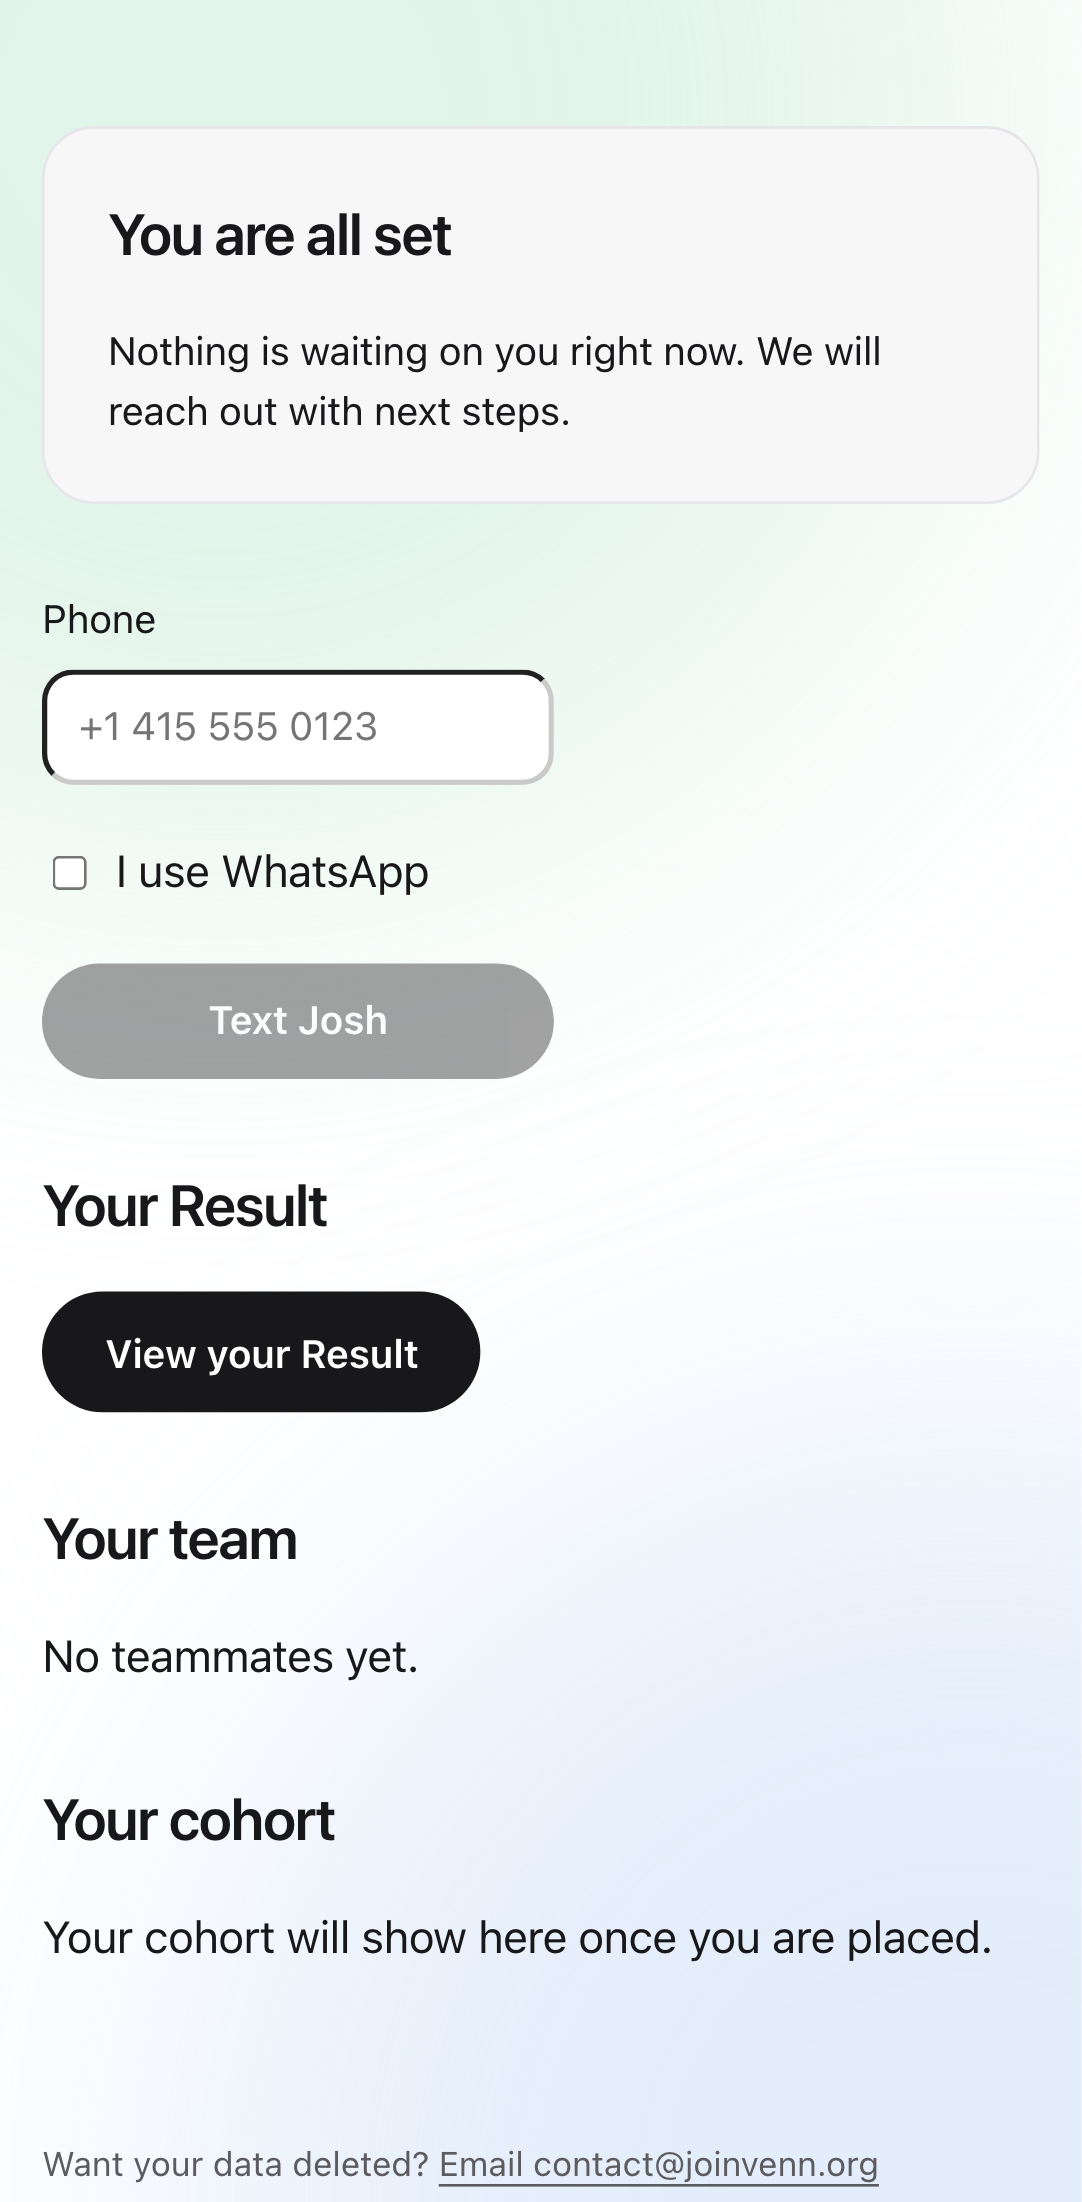
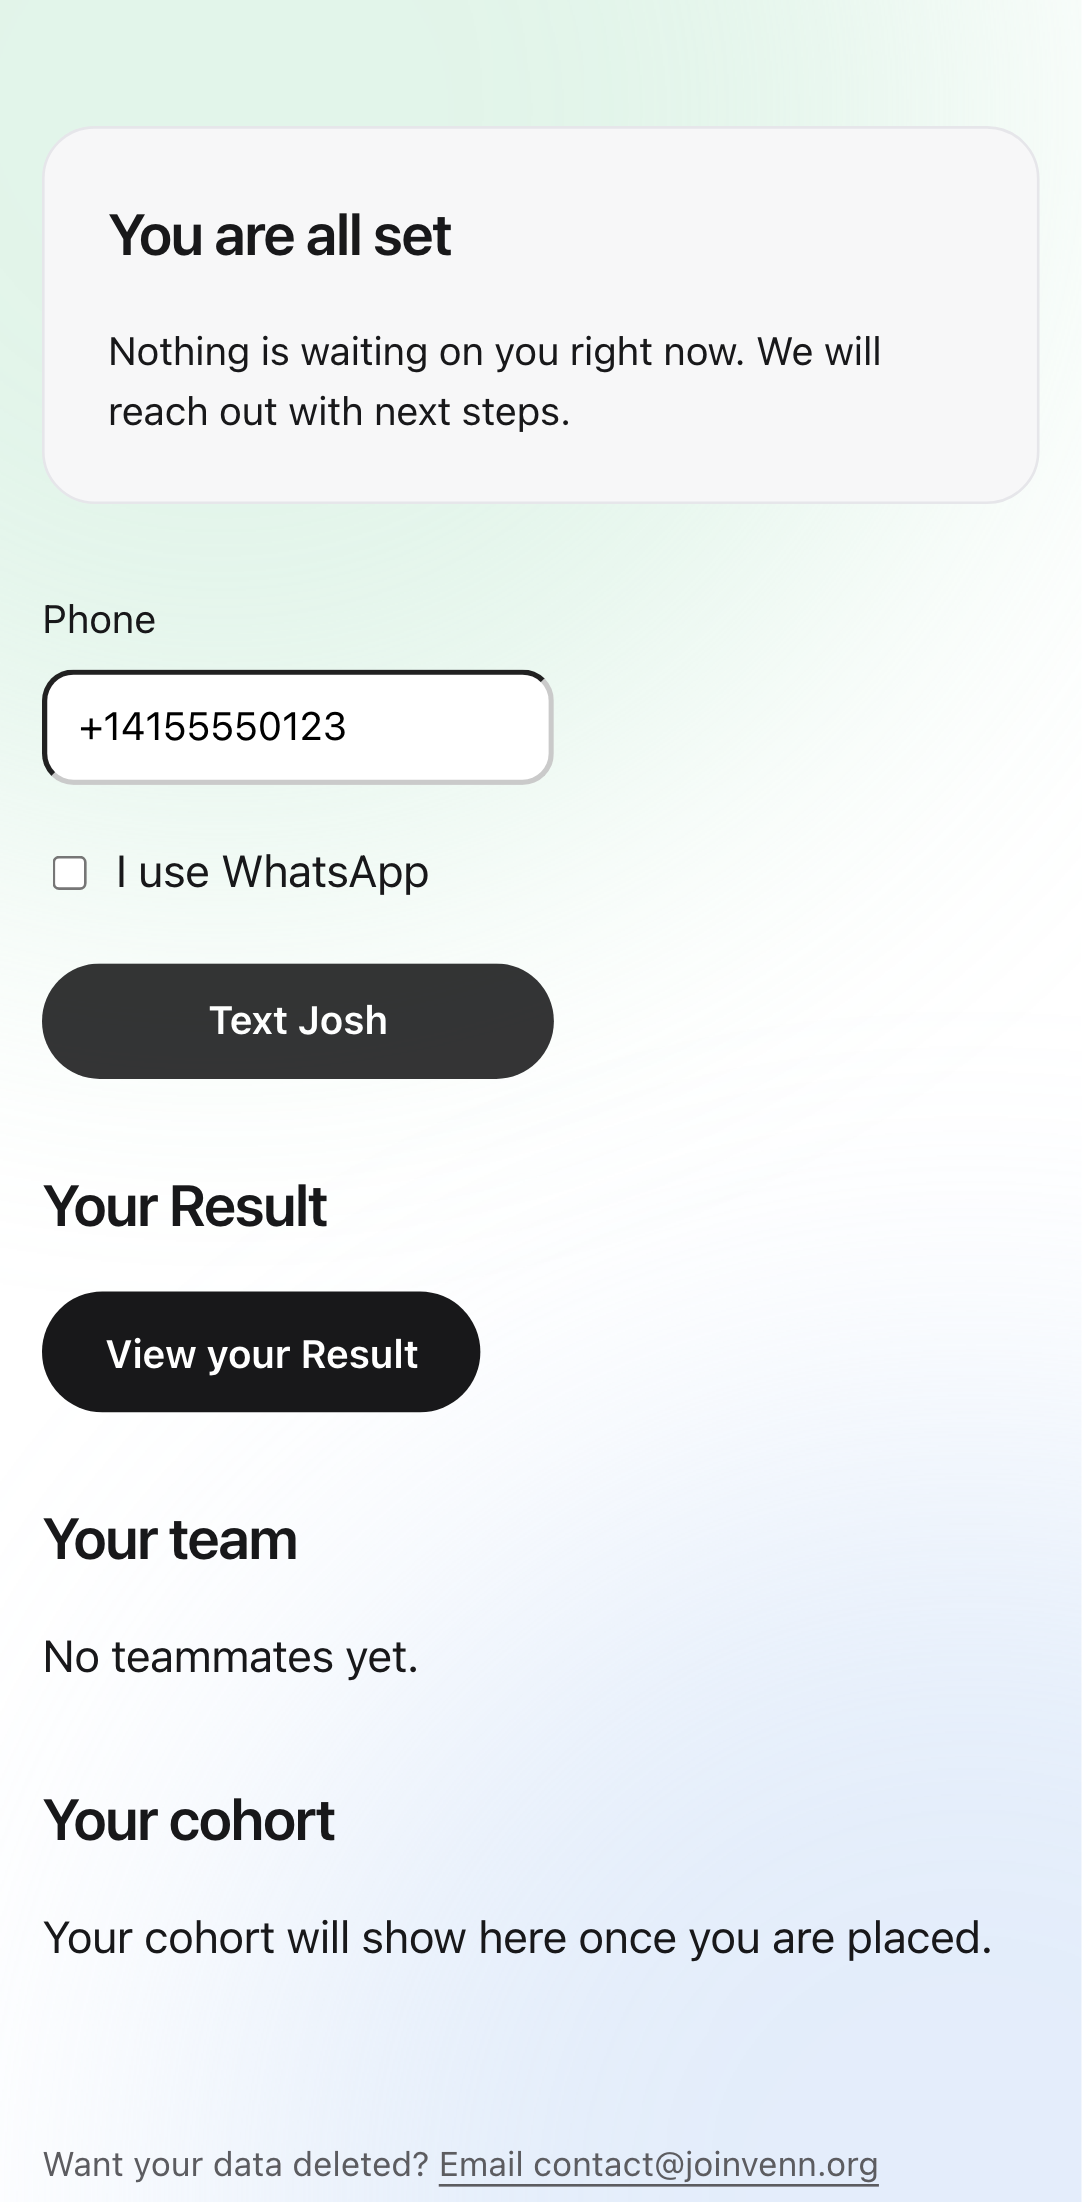
Text Josh locked for any under-18; inline textJoshState; 131 home shots for all states (#131)
Claude-Session: https://claude.ai/code/session_015ysJSPNJrTRdDvNdjTjecm

Changed region(s): [[0.0305, 0.4323, 0.5185, 0.4941], [0.0915, 0.3088, 0.3355, 0.3397]]

diff --git a/src/scripts/portal/text-link.test.ts b/src/scripts/portal/text-link.test.ts
@@ -1,7 +1,7 @@
 import test from 'node:test';
 import assert from 'node:assert/strict';
 import { stubSavePhone } from '../../lib/portal/rpc-adapter.ts';
-import { channelFor, textHref, textLine, normalizePhone, joshPhone, pillHref, textJoshState } from './text-link.ts';
+import { channelFor, textHref, textLine, normalizePhone, joshPhone, pillHref } from './text-link.ts';
 
 test('joshPhone reads PORTAL_JOSH_PHONE and falls back to empty when unset or junk', () => {
   assert.equal(joshPhone({ PORTAL_JOSH_PHONE: ' +16505550100 ' }), '+16505550100');
@@ -57,13 +57,4 @@ test('textHref encodes awkward first names and is null without a Josh number', (
   assert.ok(href.endsWith(encodeURIComponent(line)));
   assert.ok(!href.includes('&Co') && !href.includes('#1'));
   assert.equal(textHref({ channel: 'sms', josh: '', line, ua: '' }), null);
-});
-
-test('textJoshState: pill is live whenever a phone is saved, locked only for an unsigned minor (#131)', () => {
-  const saved = { phone: '+14155550123', code: 'VENN-4F2K' };
-  assert.deepEqual(textJoshState({ under18: false, parentSigned: null, ...saved }), { locked: false, ...saved });
-  assert.equal(textJoshState({ under18: null, parentSigned: null, ...saved }).locked, false);
-  assert.equal(textJoshState({ under18: true, parentSigned: true, ...saved }).locked, false);
-  assert.equal(textJoshState({ under18: true, parentSigned: false, ...saved }).locked, true);
-  assert.deepEqual(textJoshState({ under18: false, parentSigned: null, phone: null, code: null }), { locked: false, phone: '', code: '' });
 });

diff --git a/src/scripts/portal/text-link.ts b/src/scripts/portal/text-link.ts
@@ -32,8 +32,3 @@ export function pillHref(o: { firstName: string; code: string; phone: string; wh
   if (!p || !o.code) return null;
   return textHref({ channel: channelFor(p, o.whatsapp), josh: o.josh, line: textLine(o.firstName, o.code), ua: o.ua });
 }
-
-/** Props for the Text Josh section: locked only for an under-18 whose parent has not signed; a saved phone and code prefill it so the pill is live. */
-export function textJoshState(o: { under18: boolean | null; parentSigned: boolean | null; phone: string | null; code: string | null }) {
-  return { locked: o.under18 === true && o.parentSigned !== true, phone: o.phone ?? '', code: o.code ?? '' };
-}
